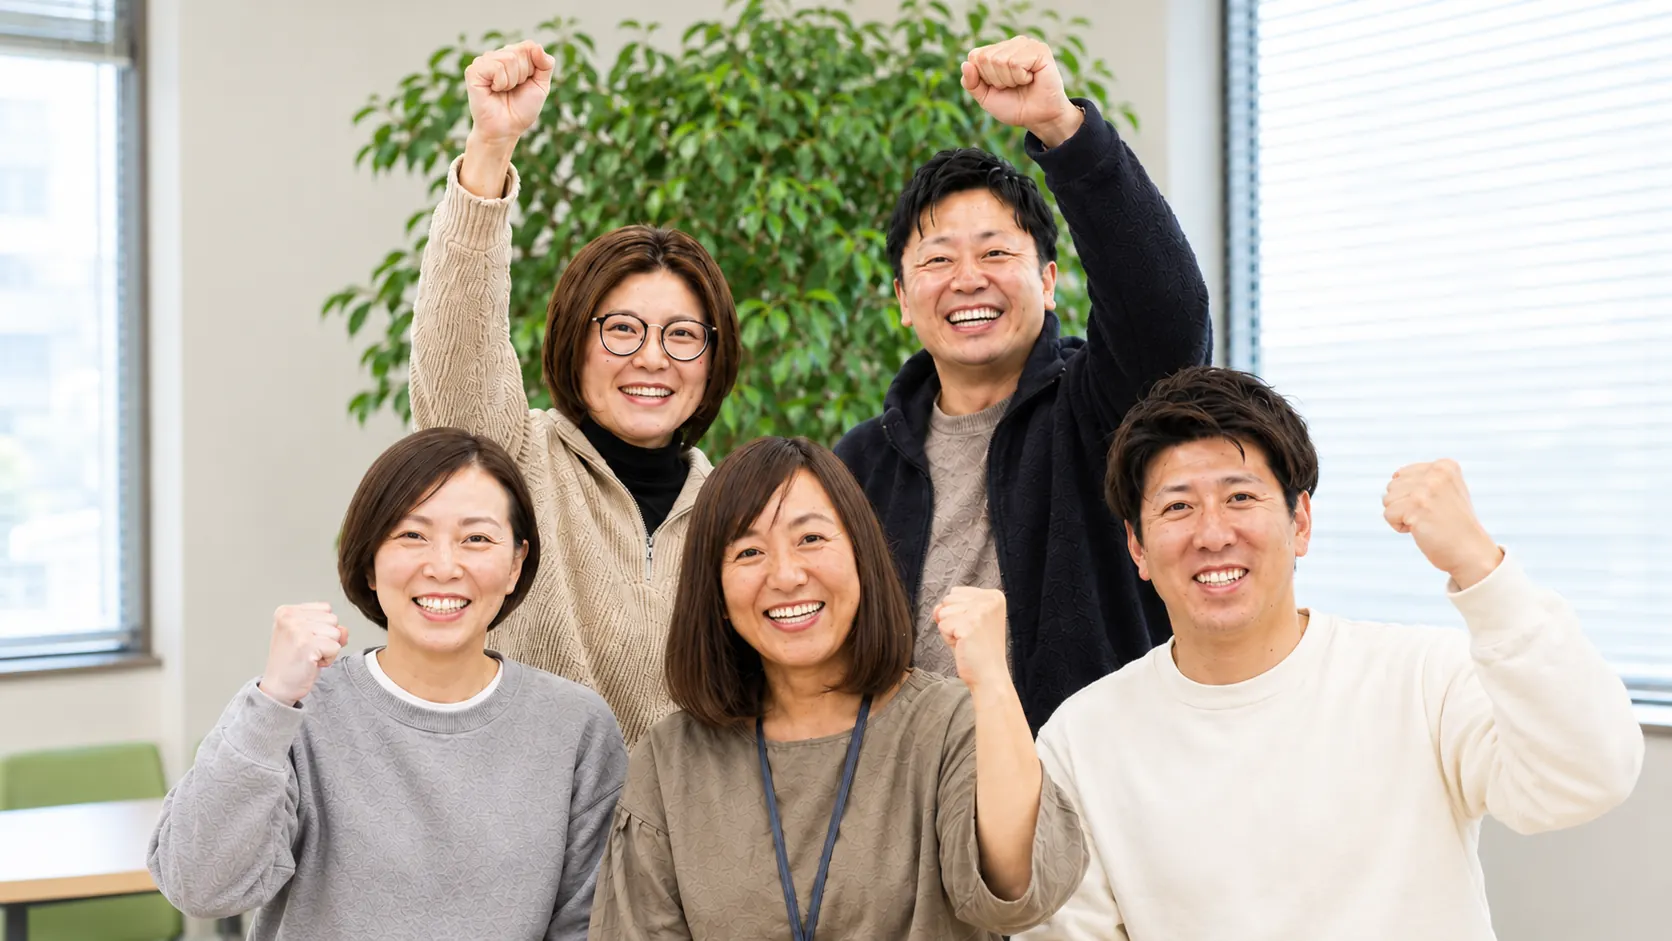
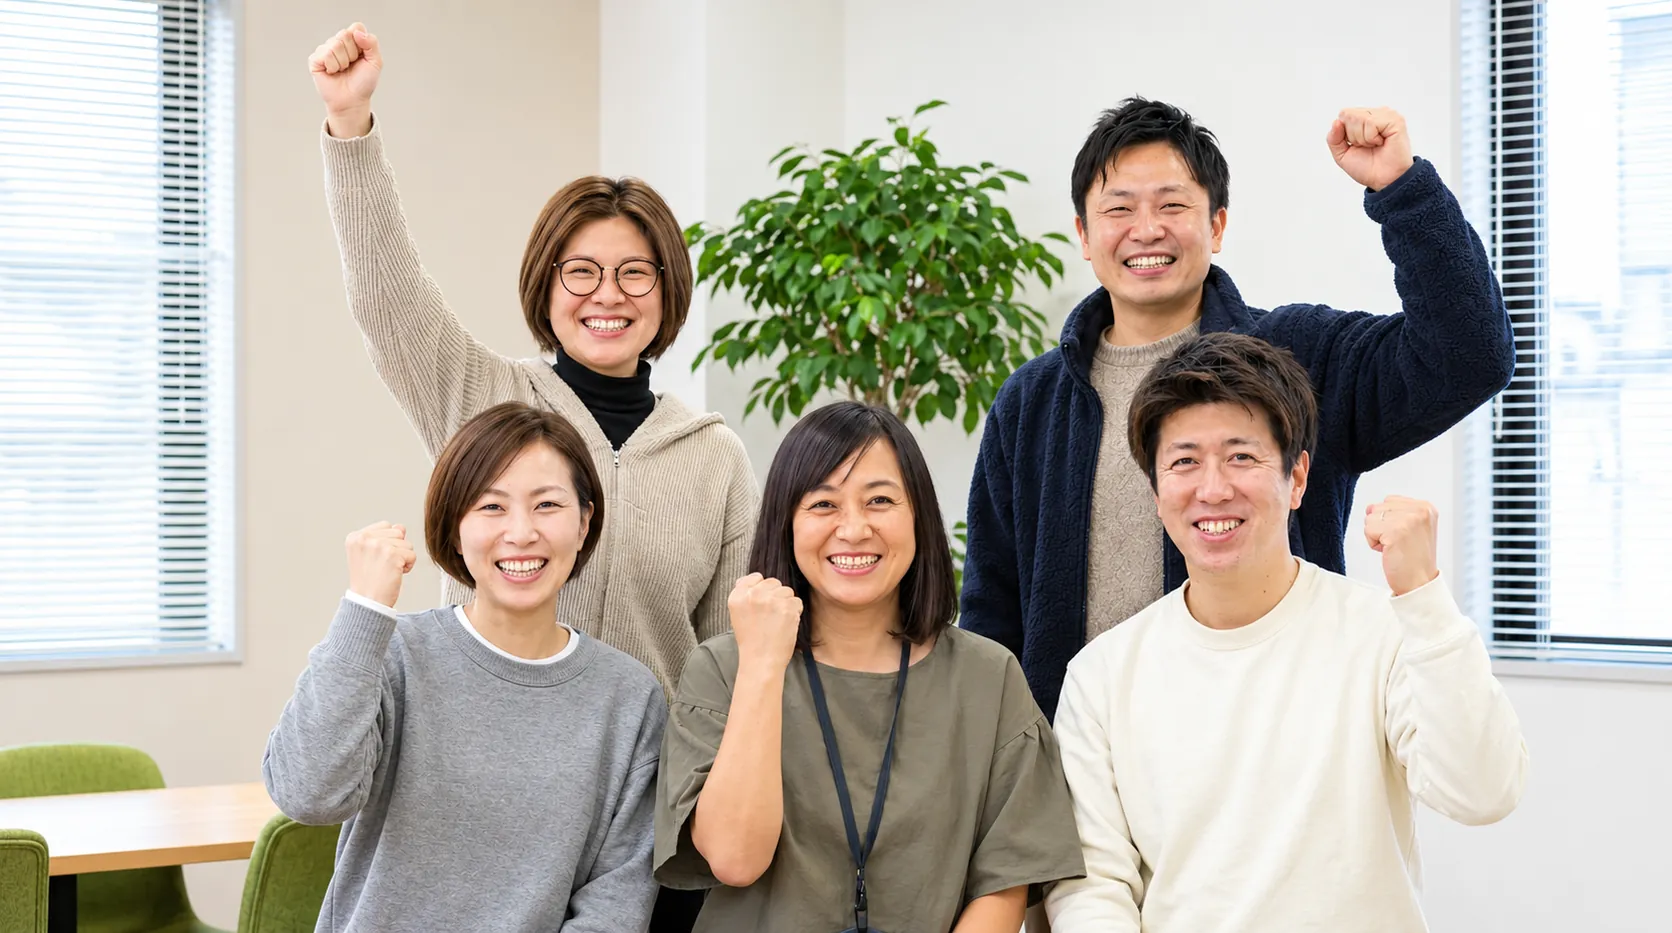
ヒーローの集合写真を新しい画像に差し替え

diff --git a/index.html b/index.html
@@ -93,7 +93,7 @@ if (!window.matchMedia('(prefers-reduced-motion: reduce)').matches) {
   </div>
   <div class="hero-jr__stage">
     <div class="hero-jr__media">
-      <div class="hero-jr__photo"><img src="assets/img/photos/hero-1672.webp" srcset="assets/img/photos/hero-800.webp 800w, assets/img/photos/hero-1672.webp 1672w" sizes="(min-width: 900px) 50vw, 100vw" width="1672" height="941" alt="笑顔で拳を上げる5人の集合写真" fetchpriority="high"></div>
+      <div class="hero-jr__photo"><img src="assets/img/photos/hero-1672.webp" srcset="assets/img/photos/hero-800.webp 800w, assets/img/photos/hero-1672.webp 1672w" sizes="(min-width: 900px) 50vw, 100vw" width="1672" height="933" alt="笑顔で拳を上げる5人の集合写真" fetchpriority="high"></div>
     </div>
     <div class="hero-jr__body">
       <h1 class="hero-jr__title" id="hero-title"><span class="nb">地域や社会に</span><span class="nb">新しい可能性を生み出す</span><span class="nb">ソーシャルベンチャー</span></h1>
